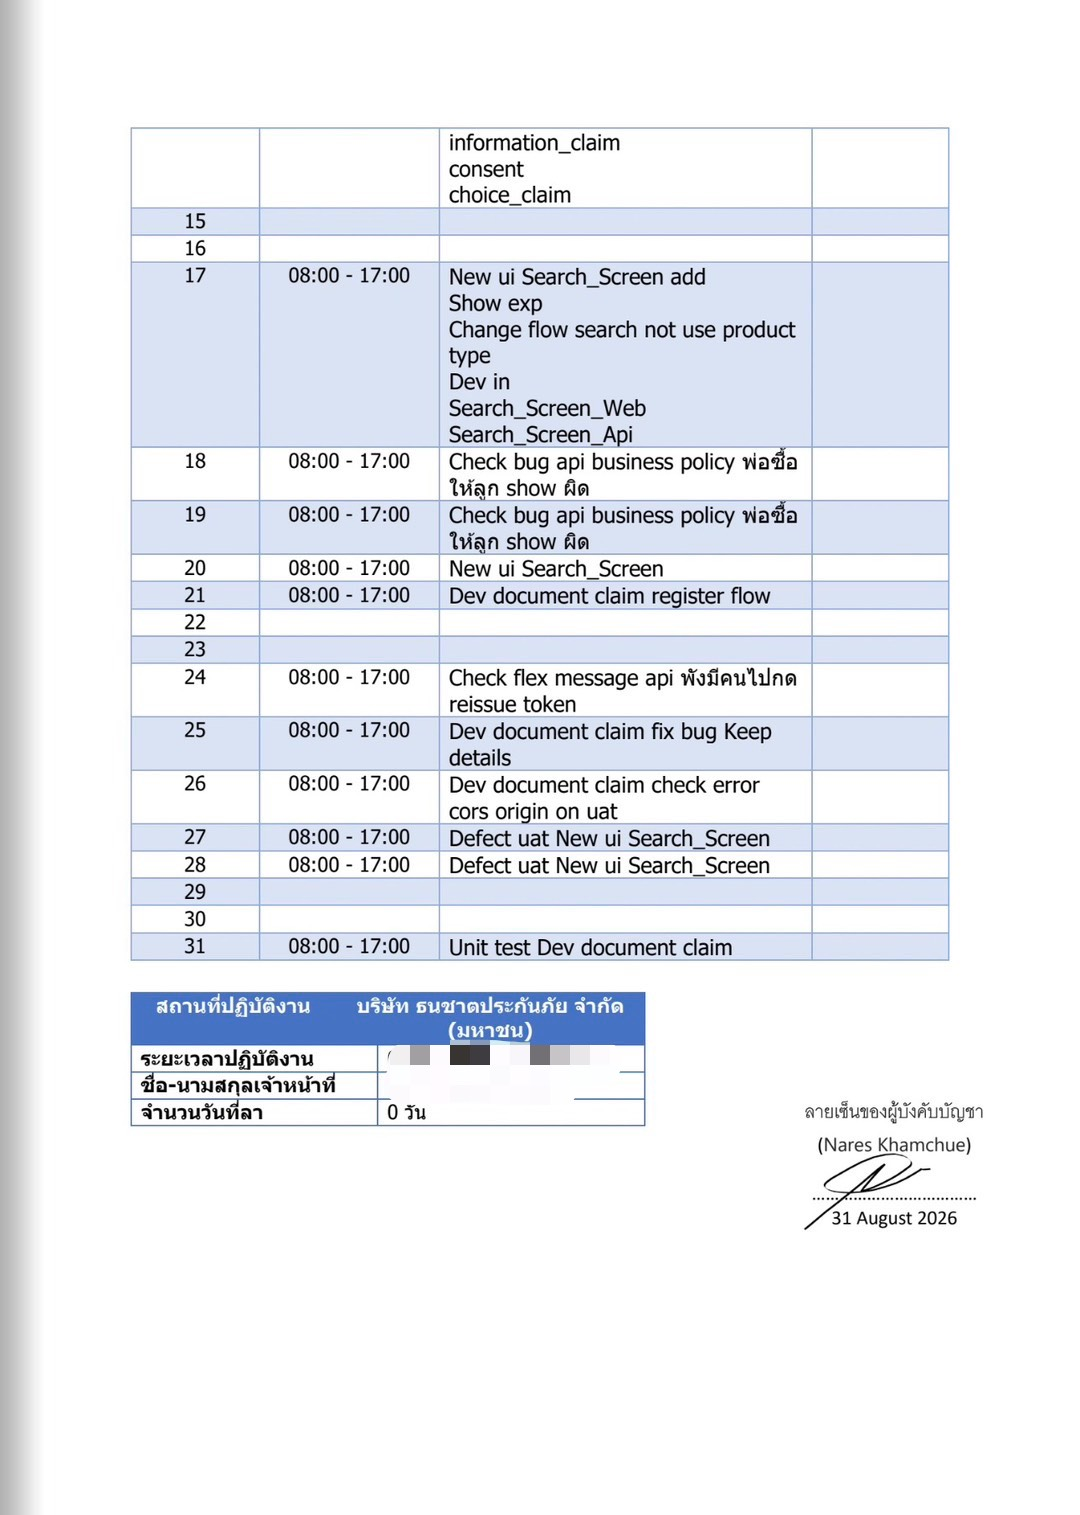
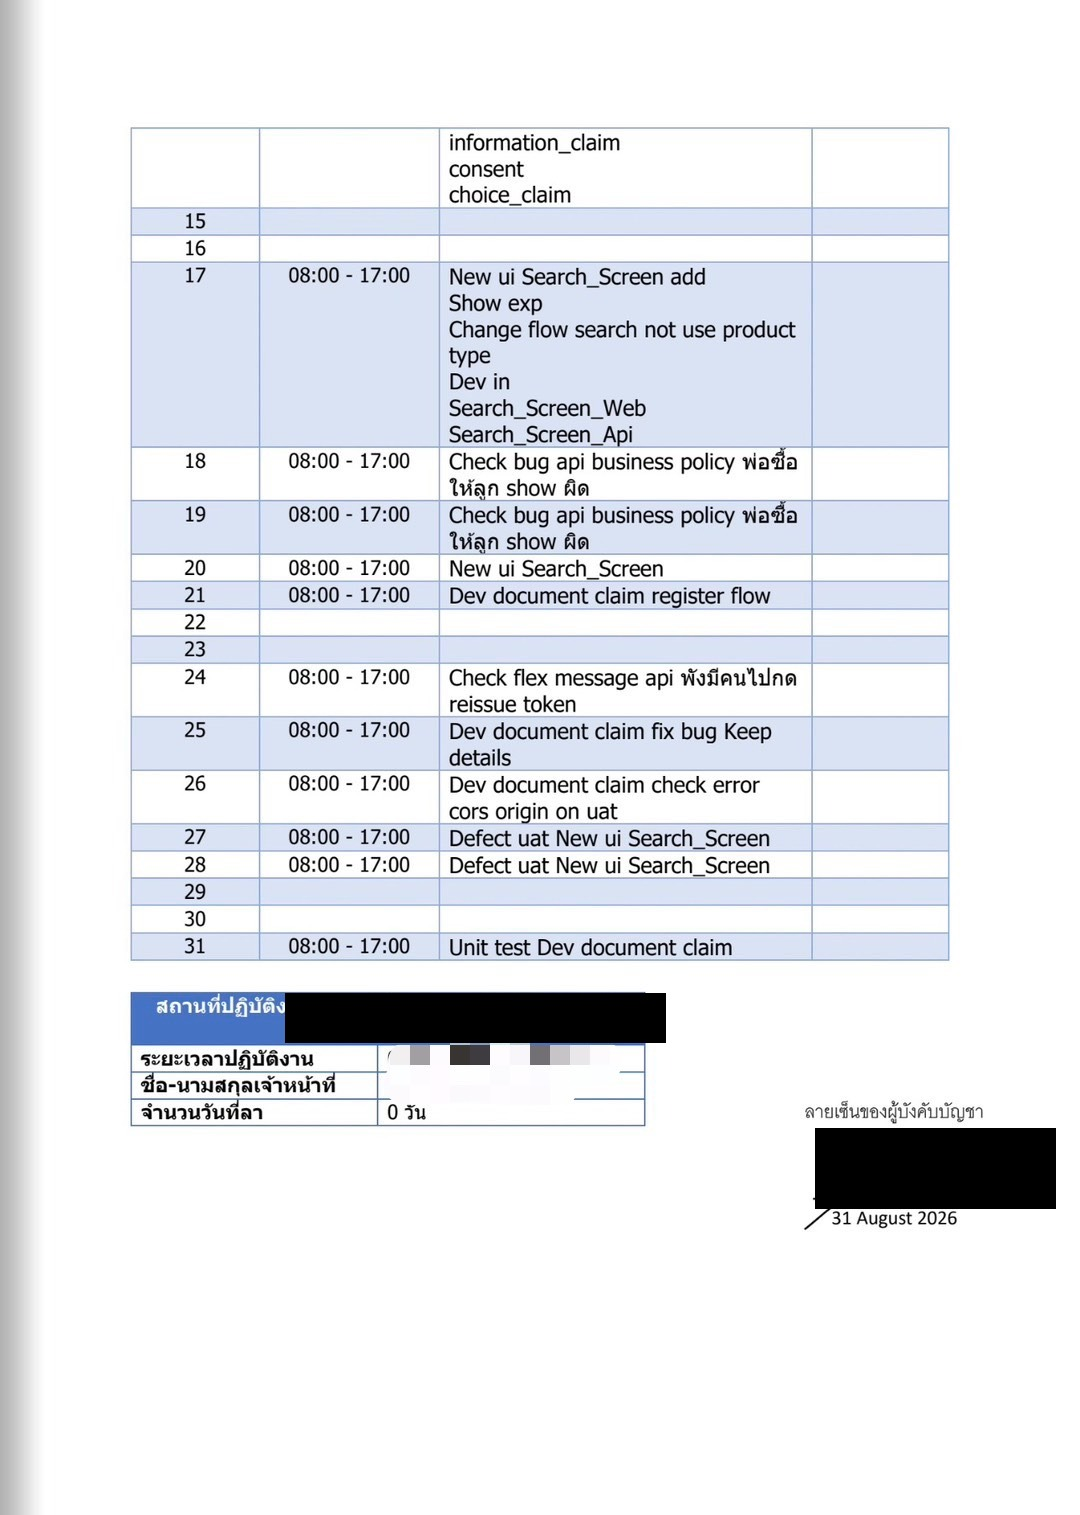
chore: redact PII in the monthly-PDF prototype image
Timesheet_last_page.jpg carried an unredacted real employer name and
a real supervisor name + handwritten signature (only the work-period
field was blanked). The first page's employee-name field was already
redacted by whoever originally supplied the file.

Covered both regions with solid black boxes (Python/Pillow), leaving
the rest of the page - task log, date, "0 วัน" leave count, the
"ลายเซ็นของผู้บังคับบัญชา" label itself - untouched since none of
that is personally or organizationally identifying on its own.
Verified the output visually before committing and confirmed the
image dimensions are unchanged (1080x1515).

Changed region(s): [[0.2444, 0.6515, 0.6417, 0.7135], [0.7333, 0.7446, 0.9778, 0.8066]]

diff --git a/obsidian/timesheet-project/Target Architecture.md b/obsidian/timesheet-project/Target Architecture.md
@@ -56,7 +56,7 @@ Timesheet remains table-first and responsive. A task tray lets users drag shared
 
 - Weekly reports run every Monday; monthly reports run at 00:15 on the first day of the next month for the closed month; annual reports run 1 January. Quartz cron and timezone are database-backed per tenant.
 - Report generation is a RabbitMQ command handled by a background worker. Runs are idempotent and retry-safe.
-- Monthly timesheet PDFs are immutable snapshots formatted from the supplied prototype ([first page](../../documents/images/prototypes/Timesheet_first_page.jpg), [last page](../../documents/images/prototypes/Timesheet_last_page.jpg) — outside the vault, so Obsidian can't preview them inline; open via the repo file path) and are signed outside the system. An administrator uploads the signed PDF back to RustFS with metadata. `ReportDocumentRenderer.cs`'s monthly layout (`Date`/`Time`/`Task · activity`/`Notes` columns, one row per day, a supervisor-signature line) follows this prototype's structure, confirmed by comparing the two directly.
+- Monthly timesheet PDFs are immutable snapshots formatted from the supplied prototype ([first page](../../documents/images/prototypes/Timesheet_first_page.jpg), [last page](../../documents/images/prototypes/Timesheet_last_page.jpg) — outside the vault, so Obsidian can't preview them inline; open via the repo file path) and are signed outside the system. An administrator uploads the signed PDF back to RustFS with metadata. `ReportDocumentRenderer.cs`'s monthly layout (`Date`/`Time`/`Task · activity`/`Notes` columns, one row per day, a supervisor-signature line) follows this prototype's structure, confirmed by comparing the two directly. The real employer name and the supervisor's name/signature on the last page were redacted (12 October 2026) with solid black boxes before publishing this link; the first page's employee-name field was already redacted by whoever originally supplied it.
 - Weekly/monthly/yearly and performance reports support PDF and XLSX. Performance uses recorded hours, work days, leave, entry completeness, project/category allocation, and overtime; it does not invent a KPI score.
 - RustFS objects have version, checksum, and metadata. Retention defaults to seven years and is tenant-configurable; purge removes the database metadata and object while recording an audit event.
 
